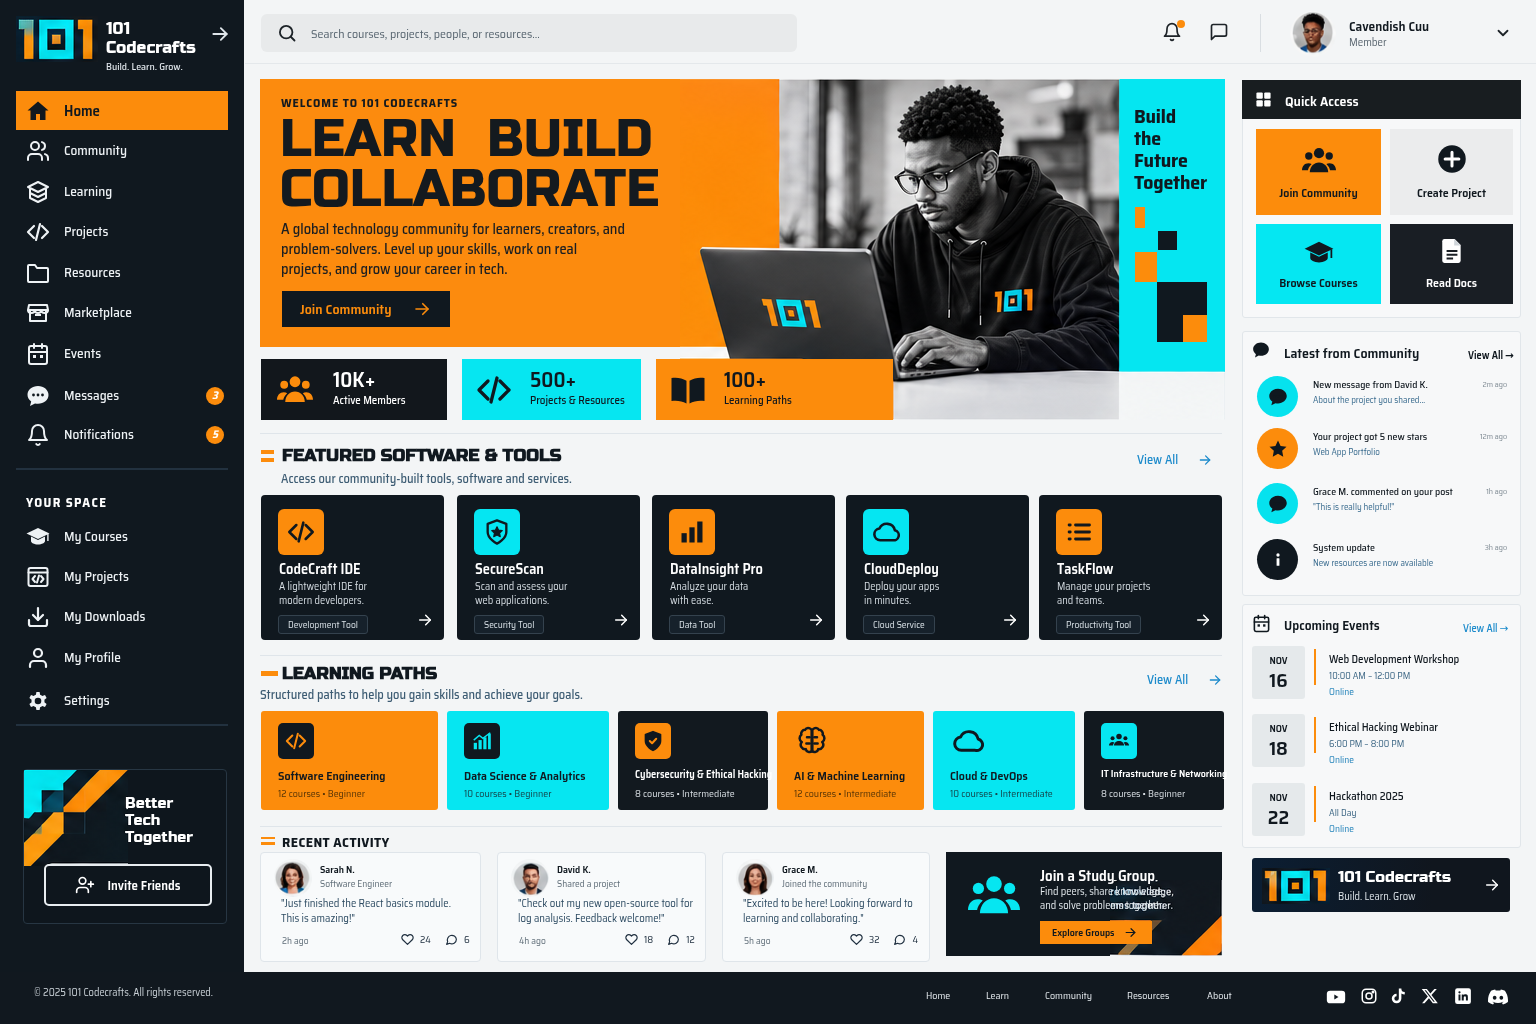
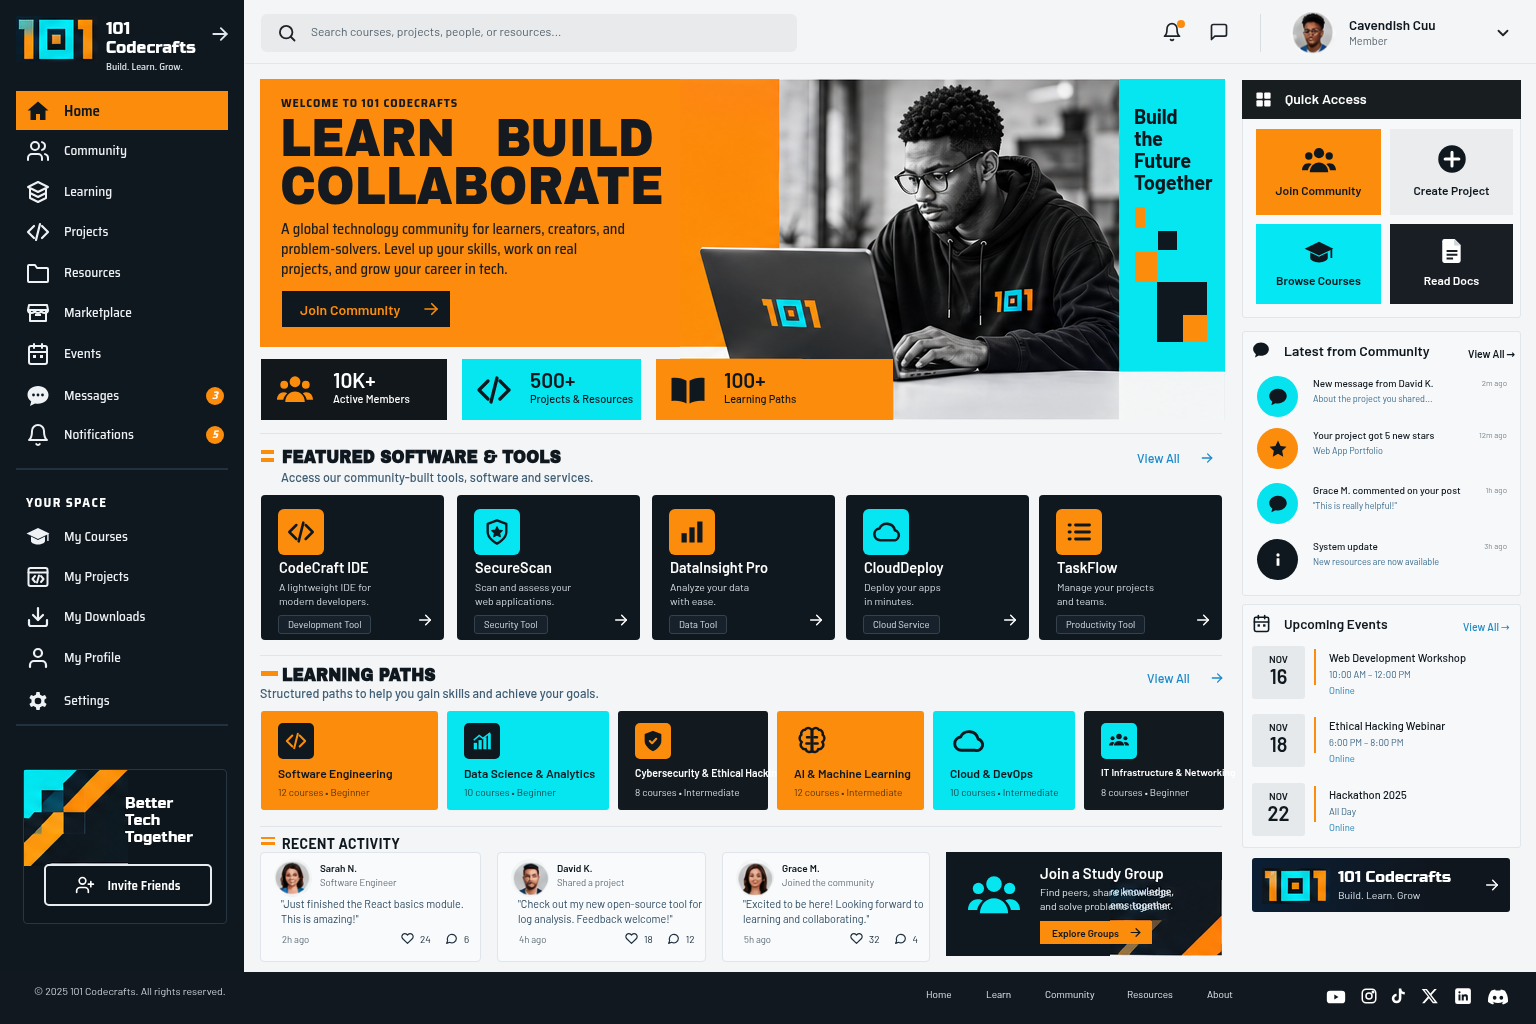
Dashboard rounds 4-6: Barlow body, Archivo Black display (best by glyph SSIM), section heads (SSIM 0.8174)

diff --git a/css/dashboard.css b/css/dashboard.css
@@ -3,10 +3,10 @@
 .app>*{position:absolute}
 
 /* sidebar */
-.side{left:0;top:0;width:244px;height:972px;background:#10181f;color:#fff}
+.side{left:0;top:0;width:244px;height:972px;background:#10181f;color:#fff;font-family:var(--cond)}
 .side>*{position:absolute}
 .brand-logo{left:16px;top:16px;width:82px;height:46px}
-.brand-name{left:106px;top:20px;font-family:var(--disp);font-size:16.3px;line-height:18.5px;color:#fff}
+.brand-name{left:106px;top:20px;font-family:var(--disp2);font-size:16.3px;line-height:18.5px;color:#fff}
 .brand-tag{left:106px;top:59px;font-size:10px;font-weight:500;color:#dfe5ea}
 .side-arrow{left:210px;top:24px;width:17px;height:17px;color:#dfe5ea}
 .nav{left:16px;width:212px}
@@ -19,7 +19,7 @@
 .side-h{left:26px;top:492px;font-size:13px;font-weight:700;letter-spacing:1.3px;color:#fff}
 .invite{left:23px;top:769px;width:204px;height:155px;border:1px solid #273643;border-radius:4px;background:#0e161d}
 .invite img{position:absolute;left:0;top:0}
-.invite .t{position:absolute;left:101px;top:25px;font-family:var(--disp);font-size:15px;line-height:17px;color:#fff}
+.invite .t{position:absolute;left:101px;top:25px;font-family:var(--disp2);font-size:15px;line-height:17px;color:#fff}
 .invite .btn{position:absolute;left:20px;top:94px;width:168px;height:42px;border:2px solid #e8edf1;border-radius:5px;display:flex;align-items:center;justify-content:center;gap:12px;font-size:13px;font-weight:600;color:#fff}
 .copy{left:34px;top:984px;font-size:10.5px;color:#c9d0d6;z-index:2}
 
@@ -40,9 +40,9 @@
 .hero-photo{left:680px;top:79px;width:545px;height:341px;z-index:2}
 .cyanp,.stat{z-index:3}
 .hero>*{position:absolute}
-.hero .kick{left:21px;top:14px;font-size:12px;font-weight:700;color:#141a1f;letter-spacing:.95px}
-.hero h1{left:20px;top:35px;transform:scaleY(1.03);transform-origin:0 0;font-family:var(--disp);font-weight:400;font-size:51.6px;line-height:48px;color:#141a1f;white-space:pre}
-.hero p{left:21px;top:141px;width:350px;font-size:14.5px;line-height:19.8px;font-weight:500;color:#1c1f22}
+.hero .kick{font-family:var(--cond);left:21px;top:14px;font-size:12px;font-weight:700;color:#141a1f;letter-spacing:.95px}
+.hero h1{left:20px;top:35px;transform:scaleY(1.153);transform-origin:0 0;font-family:var(--disp);font-weight:400;font-size:46.4px;line-height:42px;color:#141a1f;white-space:pre;word-spacing:4.5px}
+.hero p{font-family:var(--cond);left:21px;top:141px;width:350px;font-size:14.5px;line-height:19.8px;font-weight:500;color:#1c1f22}
 .hero .cta{left:22px;top:212px;width:168px;height:36px;background:#10181f;color:var(--or);font-size:14px;font-weight:600;display:flex;align-items:center;gap:22px;padding-left:18px}
 .cyanp{left:1120px;top:79px;width:105px;height:292px;background:#05e6f1}
 .cyanp>*{position:absolute}
@@ -62,7 +62,7 @@
 /* section heads */
 .rule{left:260px;width:962px;height:1px;background:#dfe5ea}
 .sec-ic{width:13px;height:12px;background:linear-gradient(var(--or) 0 4px,transparent 4px 8px,var(--or) 8px)}
-.sec-h{font-family:var(--disp);font-size:17.5px;line-height:20px;color:#10181f;white-space:nowrap}
+.sec-h{font-family:var(--disp);font-size:15.7px;line-height:20px;transform:scaleY(1.115);transform-origin:0 0;color:#10181f;white-space:nowrap}
 .sec-sub{font-size:12.5px;color:#3e5d74;font-weight:500}
 .viewall{font-size:12.5px;font-weight:500;color:#1b8acb;display:flex;align-items:center;gap:20px}
 .viewall svg{width:14px;height:14px}

diff --git a/css/brutal.css b/css/brutal.css
@@ -1,14 +1,20 @@
 /* 101 Codecrafts — brutalist UI kit. Colours sampled from the mockups. */
+@font-face{font-family:"Archivo Black";src:url(../assets/fonts/archivo-black-400.woff2) format("woff2");font-weight:400;font-display:block}
 @font-face{font-family:"Russo One";src:url(../assets/fonts/russo-one-400.woff2) format("woff2");font-weight:400;font-display:block}
-@font-face{font-family:"Body";src:url(../assets/fonts/saira-semi-condensed-400.woff2) format("woff2");font-weight:400;font-display:block}
-@font-face{font-family:"Body";src:url(../assets/fonts/saira-semi-condensed-500.woff2) format("woff2");font-weight:500;font-display:block}
-@font-face{font-family:"Body";src:url(../assets/fonts/saira-semi-condensed-600.woff2) format("woff2");font-weight:600;font-display:block}
-@font-face{font-family:"Body";src:url(../assets/fonts/saira-semi-condensed-700.woff2) format("woff2");font-weight:700;font-display:block}
+@font-face{font-family:"Body";src:url(../assets/fonts/barlow-400.woff2) format("woff2");font-weight:400;font-display:block}
+@font-face{font-family:"Body";src:url(../assets/fonts/barlow-500.woff2) format("woff2");font-weight:500;font-display:block}
+@font-face{font-family:"Body";src:url(../assets/fonts/barlow-600.woff2) format("woff2");font-weight:600;font-display:block}
+@font-face{font-family:"Body";src:url(../assets/fonts/barlow-700.woff2) format("woff2");font-weight:700;font-display:block}
+
+@font-face{font-family:"Cond";src:url(../assets/fonts/saira-semi-condensed-400.woff2) format("woff2");font-weight:400;font-display:block}
+@font-face{font-family:"Cond";src:url(../assets/fonts/saira-semi-condensed-500.woff2) format("woff2");font-weight:500;font-display:block}
+@font-face{font-family:"Cond";src:url(../assets/fonts/saira-semi-condensed-600.woff2) format("woff2");font-weight:600;font-display:block}
+@font-face{font-family:"Cond";src:url(../assets/fonts/saira-semi-condensed-700.woff2) format("woff2");font-weight:700;font-display:block}
 
 :root{
   --or:#fc8c0c; --or2:#fd880f; --cy:#05e6f2; --ink:#10181f; --ink2:#0f171e; --navy:#0c1f34;
   --bg:#f3f5f6; --line:#e0e6ea; --mut:#4f6b80; --blue:#1786c9; --white:#fff;
-  --disp:"Russo One",Impact,sans-serif; --body:"Body","Saira Semi Condensed",system-ui,sans-serif;
+  --disp:"Archivo Black","Russo One",Impact,sans-serif; --disp2:"Russo One",Impact,sans-serif; --body:"Body","Barlow",system-ui,sans-serif; --cond:"Cond","Saira Semi Condensed",system-ui,sans-serif;
 }
 *{box-sizing:border-box;margin:0;padding:0}
 html,body{background:var(--bg);color:var(--ink);font-family:var(--body);-webkit-font-smoothing:antialiased}

diff --git a/dashboard.html b/dashboard.html
@@ -4,7 +4,7 @@
 <meta charset="utf-8">
 <meta name="viewport" content="width=1536">
 <title>Dashboard · 101 Codecrafts</title>
-<link rel="preload" href="assets/fonts/russo-one-400.woff2" as="font" type="font/woff2" crossorigin>
+<link rel="preload" href="assets/fonts/archivo-black-400.woff2" as="font" type="font/woff2" crossorigin>
 <link rel="stylesheet" href="css/brutal.css">
 <link rel="stylesheet" href="css/dashboard.css">
 </head>
@@ -209,7 +209,7 @@ COLLABORATE</h1>
 <div class="ev" style="top:714px"><div class="d"><small>NOV</small><b>18</b></div><i class="bar"></i><h5>Ethical Hacking Webinar</h5><span class="tm">6:00 PM – 8:00 PM</span><span class="on">Online</span></div>
 <div class="ev" style="top:783px"><div class="d"><small>NOV</small><b>22</b></div><i class="bar"></i><h5>Hackathon 2025</h5><span class="tm">All Day</span><span class="on">Online</span></div>
 
-<a class="brandcard hov on-dark" href="index.html"><img src="assets/img/logo-101-brandcard.png" alt="101" style="left:10px;top:10px;width:68px;height:36px"><b style="left:86px;top:10px;font-family:var(--disp);font-weight:400;font-size:15.5px">101 Codecrafts</b><small style="left:86px;top:30px;font-size:10.5px;color:#dbe2e7">Build. Learn. Grow</small><svg class="i" style="left:232px;top:19px;width:16px;height:16px"><use href="#i-arrow"/></svg></a>
+<a class="brandcard hov on-dark" href="index.html"><img src="assets/img/logo-101-brandcard.png" alt="101" style="left:10px;top:10px;width:68px;height:36px"><b style="left:86px;top:10px;font-family:var(--disp2);font-weight:400;font-size:15.5px">101 Codecrafts</b><small style="left:86px;top:30px;font-size:10.5px;color:#dbe2e7">Build. Learn. Grow</small><svg class="i" style="left:232px;top:19px;width:16px;height:16px"><use href="#i-arrow"/></svg></a>
 
 <!-- ============ FOOTER ============ -->
 <footer class="foot">

diff --git a/src/dashboard.html b/src/dashboard.html
@@ -4,7 +4,7 @@
 <meta charset="utf-8">
 <meta name="viewport" content="width=1536">
 <title>Dashboard · 101 Codecrafts</title>
-<link rel="preload" href="assets/fonts/russo-one-400.woff2" as="font" type="font/woff2" crossorigin>
+<link rel="preload" href="assets/fonts/archivo-black-400.woff2" as="font" type="font/woff2" crossorigin>
 <link rel="stylesheet" href="css/brutal.css">
 <link rel="stylesheet" href="css/dashboard.css">
 </head>
@@ -151,7 +151,7 @@ COLLABORATE</h1>
 <div class="ev" style="top:714px"><div class="d"><small>NOV</small><b>18</b></div><i class="bar"></i><h5>Ethical Hacking Webinar</h5><span class="tm">6:00 PM – 8:00 PM</span><span class="on">Online</span></div>
 <div class="ev" style="top:783px"><div class="d"><small>NOV</small><b>22</b></div><i class="bar"></i><h5>Hackathon 2025</h5><span class="tm">All Day</span><span class="on">Online</span></div>
 
-<a class="brandcard hov on-dark" href="index.html"><img src="assets/img/logo-101-brandcard.png" alt="101" style="left:10px;top:10px;width:68px;height:36px"><b style="left:86px;top:10px;font-family:var(--disp);font-weight:400;font-size:15.5px">101 Codecrafts</b><small style="left:86px;top:30px;font-size:10.5px;color:#dbe2e7">Build. Learn. Grow</small><svg class="i" style="left:232px;top:19px;width:16px;height:16px"><use href="#i-arrow"/></svg></a>
+<a class="brandcard hov on-dark" href="index.html"><img src="assets/img/logo-101-brandcard.png" alt="101" style="left:10px;top:10px;width:68px;height:36px"><b style="left:86px;top:10px;font-family:var(--disp2);font-weight:400;font-size:15.5px">101 Codecrafts</b><small style="left:86px;top:30px;font-size:10.5px;color:#dbe2e7">Build. Learn. Grow</small><svg class="i" style="left:232px;top:19px;width:16px;height:16px"><use href="#i-arrow"/></svg></a>
 
 <!-- ============ FOOTER ============ -->
 <footer class="foot">
